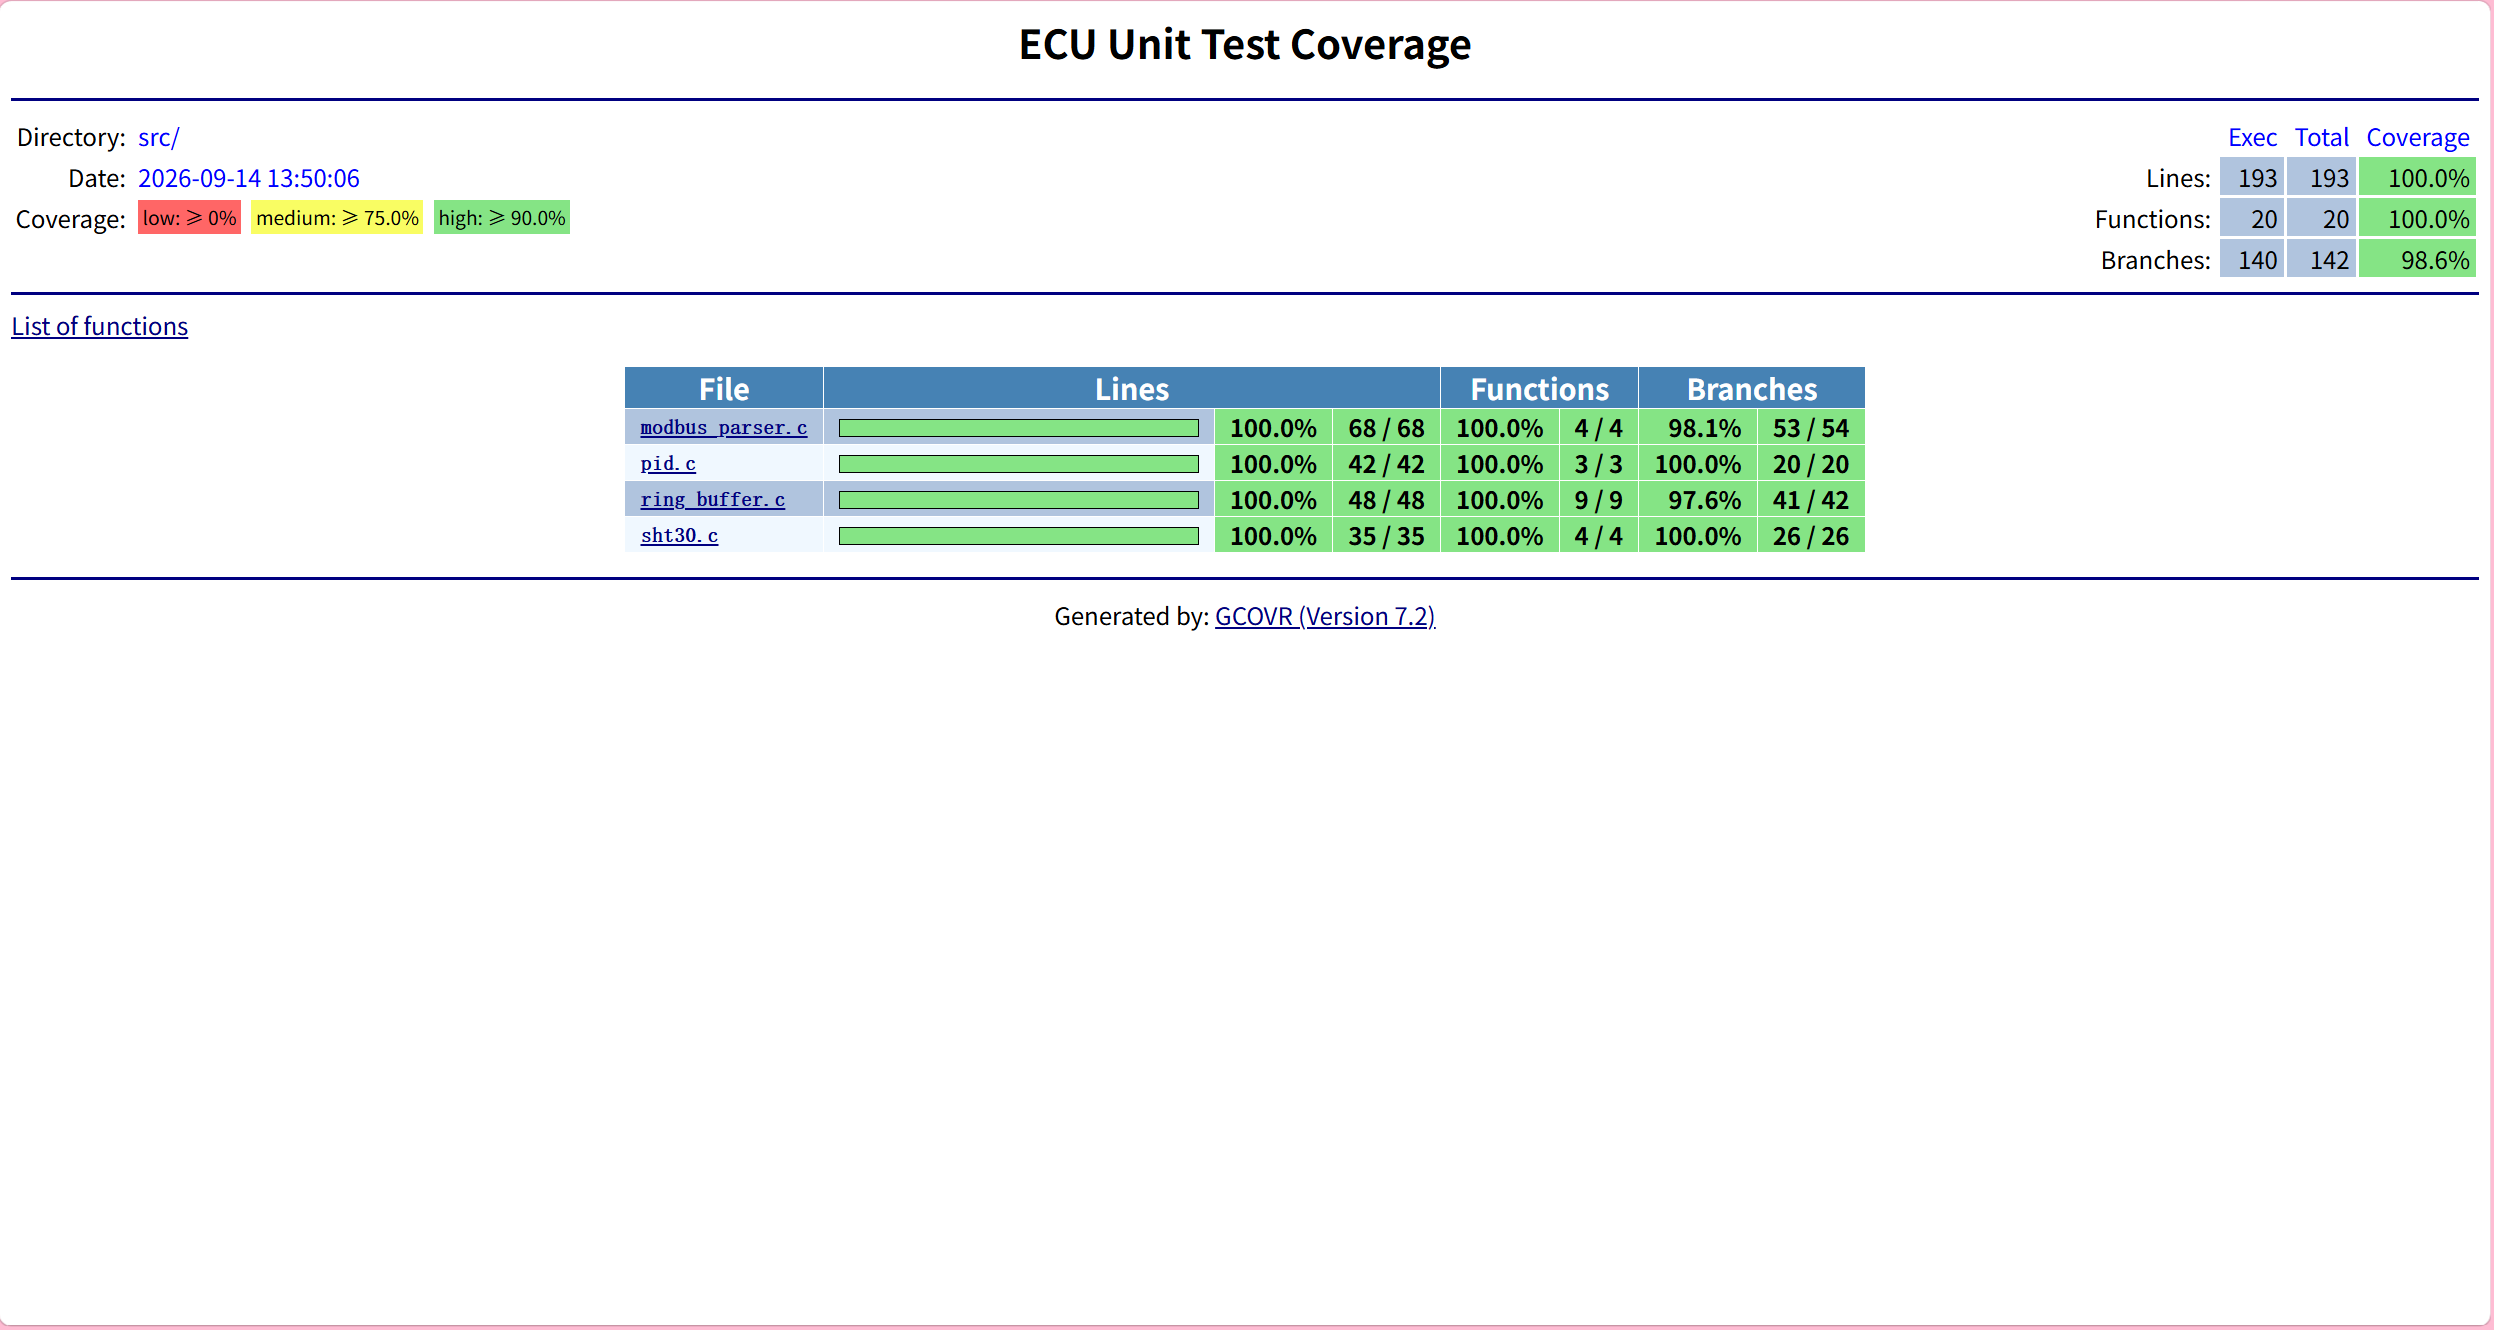
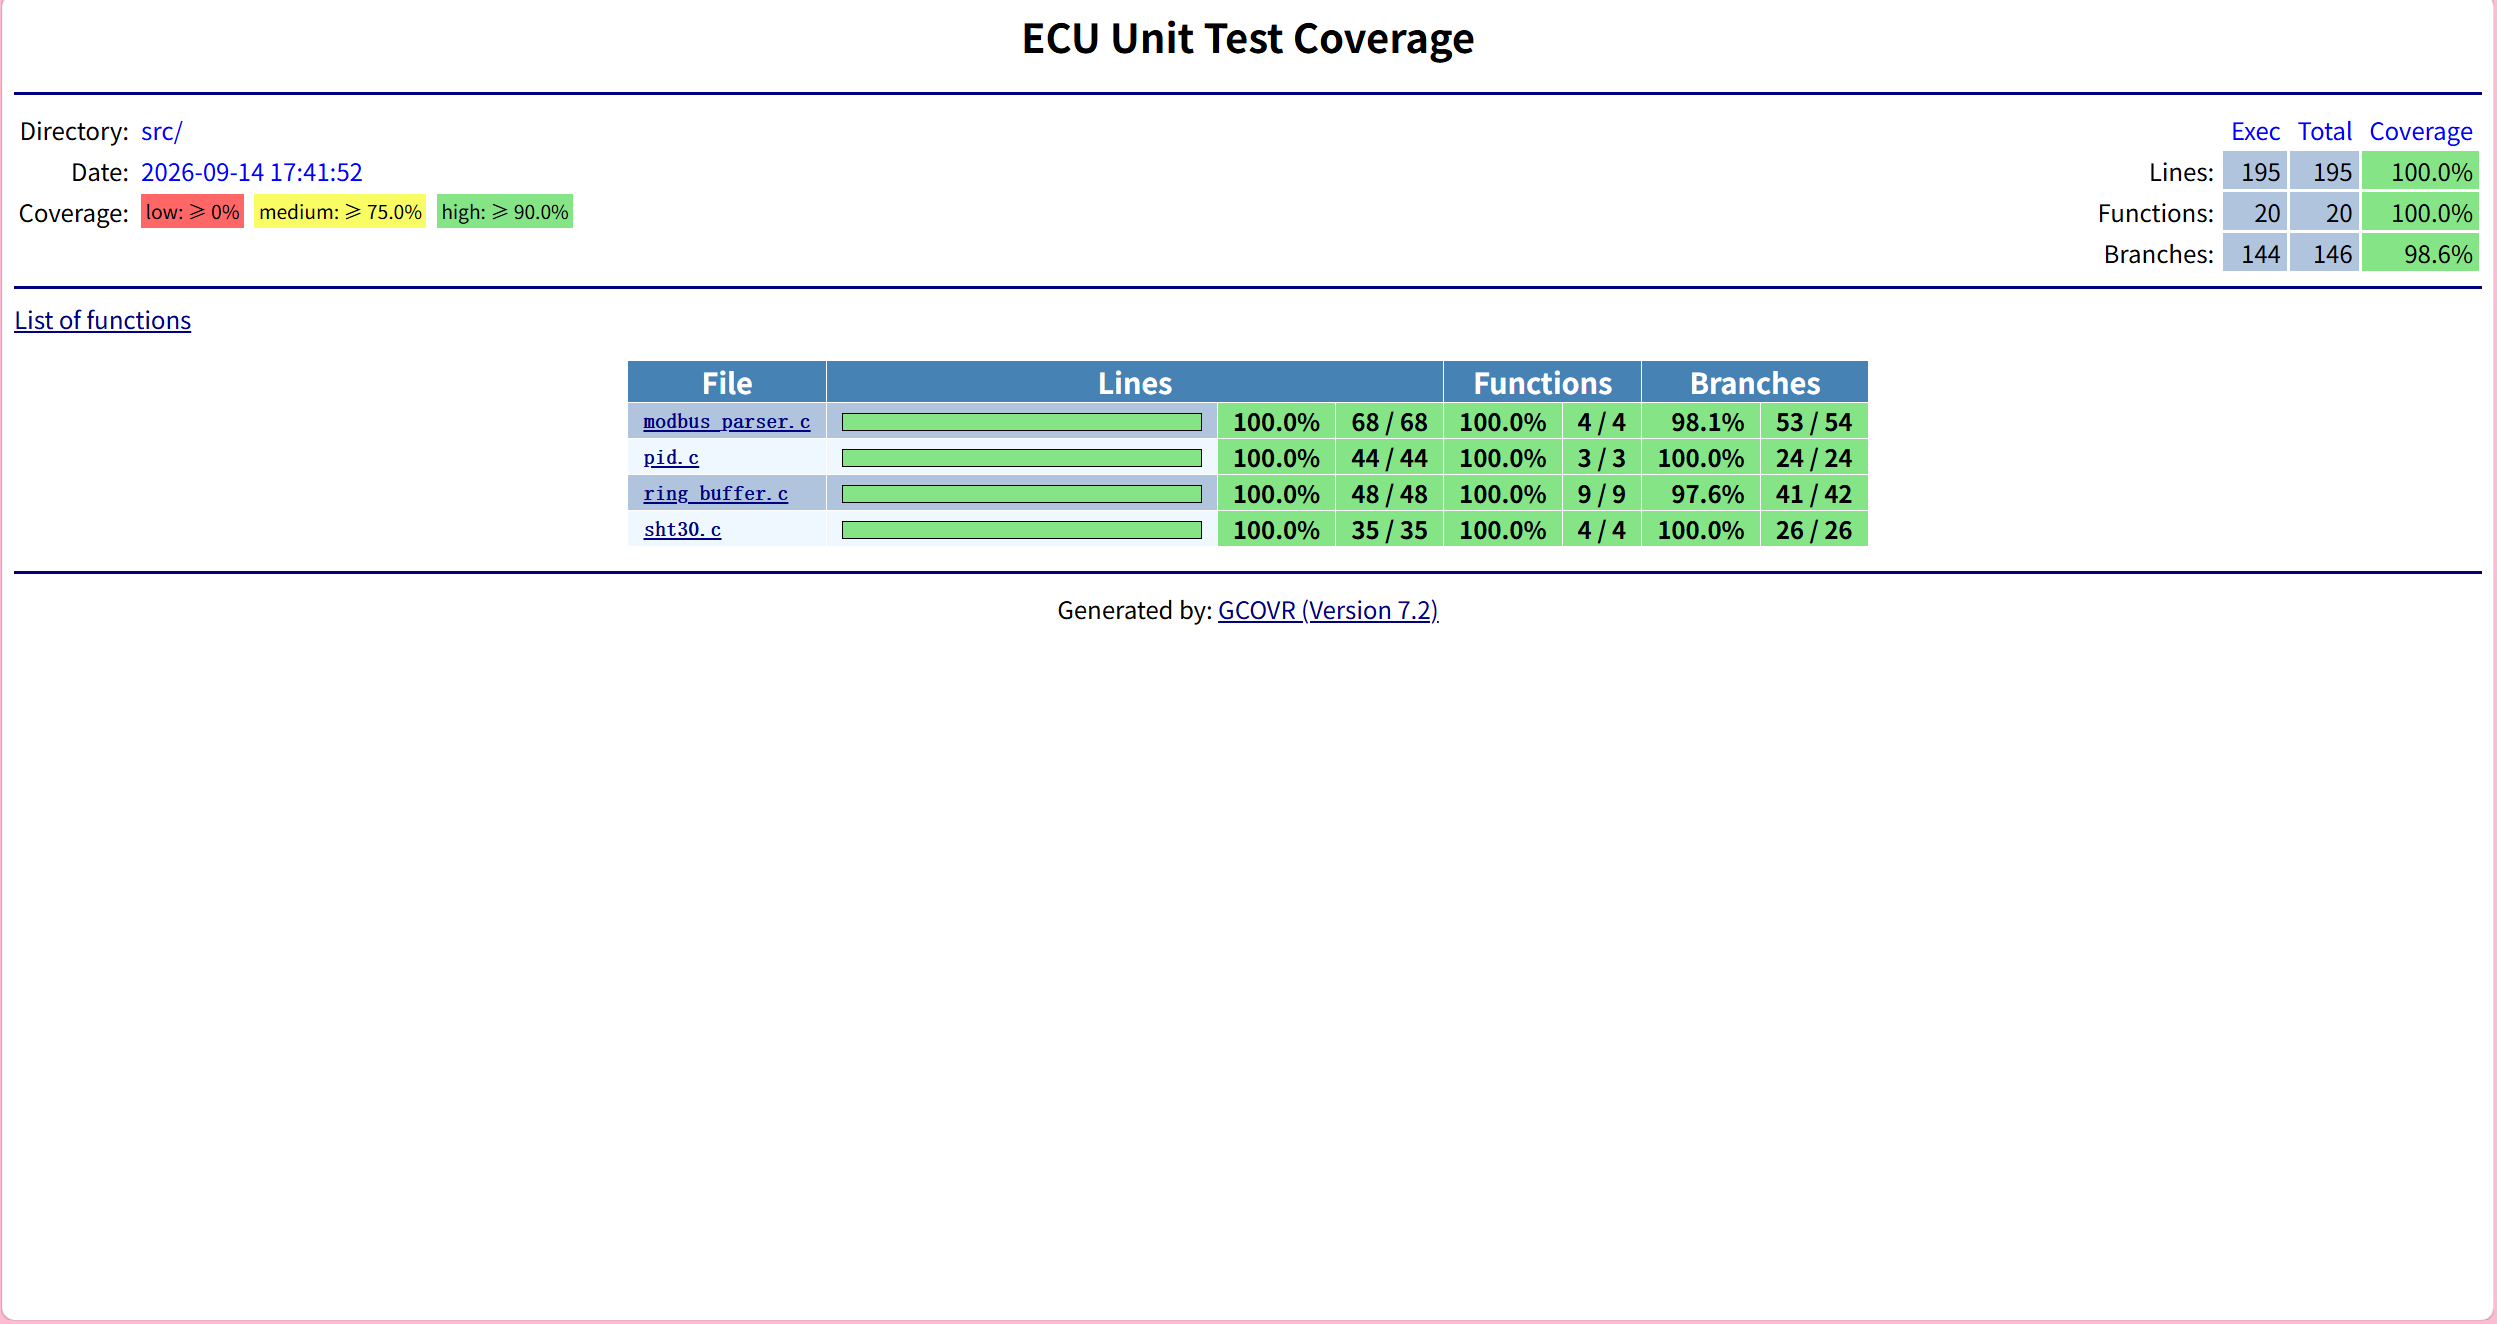
fix: harden error-path contracts (sht30 sentinel, pid NaN guard), mutation runner, CI pinning; docs: official-style README with demo screenshots

Changed region(s): [[0.0, 0.0, 1.0, 0.4955], [0.0, 0.9909, 0.0309, 1.0], [0.0, 0.4335, 0.0309, 0.4645]]

diff --git a/test/test_sht30.c b/test/test_sht30.c
@@ -81,7 +81,7 @@ void test_read_converts_known_frame_25c_40rh(void)
     hal_i2c_read_IgnoreArg_data();
     hal_i2c_read_ReturnArrayThruPtr_data(FRAME_25C_40RH, 6);
 
-    float t = 0.0f, h = 0.0f;
+    float t = -999.0f, h = -999.0f;
     TEST_ASSERT_EQUAL_INT(SHT30_OK, sht30_read_measurement(SHT30_I2C_ADDR, &t, &h));
     TEST_ASSERT_FLOAT_WITHIN(0.01f, 25.0f, t);
     TEST_ASSERT_FLOAT_WITHIN(0.01f, 40.0f, h);
@@ -109,7 +109,7 @@ void test_read_converts_max_raw_values(void)
     hal_i2c_read_IgnoreArg_data();
     hal_i2c_read_ReturnArrayThruPtr_data(frame, 6);
 
-    float t = 0.0f, h = 0.0f;
+    float t = -999.0f, h = -999.0f;
     TEST_ASSERT_EQUAL_INT(SHT30_OK, sht30_read_measurement(SHT30_I2C_ADDR, &t, &h));
     TEST_ASSERT_FLOAT_WITHIN(0.01f, 130.0f, t);
     TEST_ASSERT_FLOAT_WITHIN(0.01f, 100.0f, h);
@@ -124,8 +124,14 @@ void test_read_rejects_corrupted_temperature_crc(void)
     hal_i2c_read_IgnoreArg_data();
     hal_i2c_read_ReturnArrayThruPtr_data(frame, 6);
 
-    float t, h;
+    float t = -999.0f, h = -999.0f;
     TEST_ASSERT_EQUAL_INT(SHT30_ERR_CRC, sht30_read_measurement(SHT30_I2C_ADDR, &t, &h));
+    TEST_ASSERT_EQUAL_FLOAT(-999.0f, t);
+    TEST_ASSERT_EQUAL_FLOAT(-999.0f, h);
+    TEST_ASSERT_EQUAL_FLOAT(-999.0f, t);
+    TEST_ASSERT_EQUAL_FLOAT(-999.0f, h);
+    TEST_ASSERT_EQUAL_FLOAT(-999.0f, t);
+    TEST_ASSERT_EQUAL_FLOAT(-999.0f, h);
 }
 
 void test_read_rejects_corrupted_humidity_crc(void)
@@ -136,8 +142,14 @@ void test_read_rejects_corrupted_humidity_crc(void)
     hal_i2c_read_IgnoreArg_data();
     hal_i2c_read_ReturnArrayThruPtr_data(frame, 6);
 
-    float t, h;
+    float t = -999.0f, h = -999.0f;
     TEST_ASSERT_EQUAL_INT(SHT30_ERR_CRC, sht30_read_measurement(SHT30_I2C_ADDR, &t, &h));
+    TEST_ASSERT_EQUAL_FLOAT(-999.0f, t);
+    TEST_ASSERT_EQUAL_FLOAT(-999.0f, h);
+    TEST_ASSERT_EQUAL_FLOAT(-999.0f, t);
+    TEST_ASSERT_EQUAL_FLOAT(-999.0f, h);
+    TEST_ASSERT_EQUAL_FLOAT(-999.0f, t);
+    TEST_ASSERT_EQUAL_FLOAT(-999.0f, h);
 }
 
 /* ---------------- HAL 错误传播（3） ---------------- */
@@ -146,22 +158,40 @@ void test_read_propagates_nack(void)
 {
     /* 传感器不应答（测量未完成/掉线）→ 错误必须原样映射上传，不得吞掉 */
     hal_i2c_read_ExpectAnyArgsAndReturn(HAL_I2C_ERR_NACK);
-    float t, h;
+    float t = -999.0f, h = -999.0f;
     TEST_ASSERT_EQUAL_INT(SHT30_ERR_NACK, sht30_read_measurement(SHT30_I2C_ADDR, &t, &h));
+    TEST_ASSERT_EQUAL_FLOAT(-999.0f, t);
+    TEST_ASSERT_EQUAL_FLOAT(-999.0f, h);
+    TEST_ASSERT_EQUAL_FLOAT(-999.0f, t);
+    TEST_ASSERT_EQUAL_FLOAT(-999.0f, h);
+    TEST_ASSERT_EQUAL_FLOAT(-999.0f, t);
+    TEST_ASSERT_EQUAL_FLOAT(-999.0f, h);
 }
 
 void test_read_propagates_timeout(void)
 {
     hal_i2c_read_ExpectAnyArgsAndReturn(HAL_I2C_ERR_TIMEOUT);
-    float t, h;
+    float t = -999.0f, h = -999.0f;
     TEST_ASSERT_EQUAL_INT(SHT30_ERR_TIMEOUT, sht30_read_measurement(SHT30_I2C_ADDR, &t, &h));
+    TEST_ASSERT_EQUAL_FLOAT(-999.0f, t);
+    TEST_ASSERT_EQUAL_FLOAT(-999.0f, h);
+    TEST_ASSERT_EQUAL_FLOAT(-999.0f, t);
+    TEST_ASSERT_EQUAL_FLOAT(-999.0f, h);
+    TEST_ASSERT_EQUAL_FLOAT(-999.0f, t);
+    TEST_ASSERT_EQUAL_FLOAT(-999.0f, h);
 }
 
 void test_read_propagates_bus_error(void)
 {
     hal_i2c_read_ExpectAnyArgsAndReturn(HAL_I2C_ERR_BUS);
-    float t, h;
+    float t = -999.0f, h = -999.0f;
     TEST_ASSERT_EQUAL_INT(SHT30_ERR_BUS, sht30_read_measurement(SHT30_I2C_ADDR, &t, &h));
+    TEST_ASSERT_EQUAL_FLOAT(-999.0f, t);
+    TEST_ASSERT_EQUAL_FLOAT(-999.0f, h);
+    TEST_ASSERT_EQUAL_FLOAT(-999.0f, t);
+    TEST_ASSERT_EQUAL_FLOAT(-999.0f, h);
+    TEST_ASSERT_EQUAL_FLOAT(-999.0f, t);
+    TEST_ASSERT_EQUAL_FLOAT(-999.0f, h);
 }
 
 /* ---------------- 参数防御：关键是"零总线交互"（2） ---------------- */
@@ -201,7 +231,7 @@ void test_read_with_stub_callback_fake_sensor(void)
     memcpy(g_fake_response, FRAME_25C_40RH, 6u);
     hal_i2c_read_StubWithCallback(fake_sht30_on_bus);    /* 挂上假传感器 */
 
-    float t = 0.0f, h = 0.0f;
+    float t = -999.0f, h = -999.0f;
     TEST_ASSERT_EQUAL_INT(SHT30_OK, sht30_read_measurement(SHT30_I2C_ADDR, &t, &h));
     TEST_ASSERT_FLOAT_WITHIN(0.01f, 25.0f, t);
     TEST_ASSERT_FLOAT_WITHIN(0.01f, 40.0f, h);
@@ -220,8 +250,14 @@ void test_trigger_ok_but_read_nacks_midway_sequence(void)
     TEST_ASSERT_EQUAL_INT(SHT30_OK, sht30_trigger_measurement(SHT30_I2C_ADDR));
 
     hal_i2c_read_ExpectAnyArgsAndReturn(HAL_I2C_ERR_NACK);
-    float t = 0.0f, h = 0.0f;
+    float t = -999.0f, h = -999.0f;
     TEST_ASSERT_EQUAL_INT(SHT30_ERR_NACK, sht30_read_measurement(SHT30_I2C_ADDR, &t, &h));
+    TEST_ASSERT_EQUAL_FLOAT(-999.0f, t);
+    TEST_ASSERT_EQUAL_FLOAT(-999.0f, h);
+    TEST_ASSERT_EQUAL_FLOAT(-999.0f, t);
+    TEST_ASSERT_EQUAL_FLOAT(-999.0f, h);
+    TEST_ASSERT_EQUAL_FLOAT(-999.0f, t);
+    TEST_ASSERT_EQUAL_FLOAT(-999.0f, h);
 }
 
 void test_crc8_zero_length_with_valid_pointer_returns_init(void)

diff --git a/src/pid.c b/src/pid.c
@@ -1,4 +1,5 @@
 #include "pid.h"
+#include <math.h>   /* isnan：NaN 无法被 <= 比较捕获，必须显式检查 */
 #include <stddef.h>  /* NULL 定义于此，IWYU */
 
 bool pid_init(pid_t *pid, float kp, float ki, float kd, float out_min, float out_max)
@@ -37,14 +38,19 @@ bool pid_compute(pid_t *pid, float setpoint, float measurement, float dt, float 
     if ((pid == NULL) || (output == NULL)) {
         return false;
     }
-    /* dt 非法时提前返回：既不除零，也保证调用者输出变量不被污染 */
-    if (dt <= 0.0f) {
+    /* dt 非法（含 NaN）时提前返回：既不除零，也保证输出不被污染。
+       注意：NaN 参与任何比较结果都是 false，"dt <= 0" 拦不住它 */
+    if (isnan(dt) || (dt <= 0.0f)) {
         return false;
     }
 
     float error = setpoint - measurement;
+    /* error 为 NaN 直接拒绝：NaN 有传染性，一旦进入积分器将永久污染 */
+    if (isnan(error)) {
+        return false;
+    }
 
-    /* 先积分后限幅：抗饱和的核心，方向错一点都会被执行序列测试抓住 */
+    /* 先积分后限幅：抗饱和的核心 */
     pid->integral += error * dt;
     if (pid->integral > pid->int_max) {
         pid->integral = pid->int_max;
@@ -53,8 +59,8 @@ bool pid_compute(pid_t *pid, float setpoint, float measurement, float dt, float 
         pid->integral = pid->int_min;
     }
 
-    /* 注意：首周期 prev_error=0 会有微分冲击（derivative kick），
-       量产做法是"对测量值微分"——本项目的取舍见 README trade-off 章节 */
+    /* 首周期 prev_error=0 存在微分冲击（derivative kick），
+       量产做法是"对测量值微分"——见 README 改进路线 */
     float derivative = (error - pid->prev_error) / dt;
 
     float out = pid->kp * error

diff --git a/test/test_pid.c b/test/test_pid.c
@@ -1,5 +1,6 @@
 #include "unity.h"
 #include "pid.h"
+#include <math.h>  /* NAN 宏 */
 
 static pid_t pid;
 
@@ -200,5 +201,28 @@ void test_reset_null_handle_is_harmless(void)
     float out = 0.0f;
     TEST_ASSERT_TRUE(pid_compute(&pid, 1.0f, 0.0f, 1.0f, &out));  /* 既有状态未被影响 */
 }
+
+
+
+void test_dt_nan_returns_false_and_output_untouched(void)
+{
+    /* NaN 参与比较恒为 false，"dt <= 0" 拦不住它——必须 isnan 显式拦截 */
+    float out = -123.0f;
+    TEST_ASSERT_FALSE(pid_compute(&pid, 1.0f, 0.0f, NAN, &out));
+    TEST_ASSERT_EQUAL_FLOAT(-123.0f, out);
+}
+
+void test_nan_measurement_returns_false_and_integral_stays_clean(void)
+{
+    /* 测量值 NaN → error 为 NaN：拦截且积分器零污染（NaN 有传染性）。
+       验证：随后一个合法周期输出精确等于"从未发生 NaN"时的 3.0 */
+    float out = -123.0f;
+    TEST_ASSERT_FALSE(pid_compute(&pid, 1.0f, NAN, 1.0f, &out));
+    TEST_ASSERT_EQUAL_FLOAT(-123.0f, out);
+    (void)pid_compute(&pid, 1.0f, 0.0f, 1.0f, &out);
+    TEST_ASSERT_FLOAT_WITHIN(0.0001f, 3.0f, out);   /* 1 + 1 + 1 */
+}
+
+
 
 
